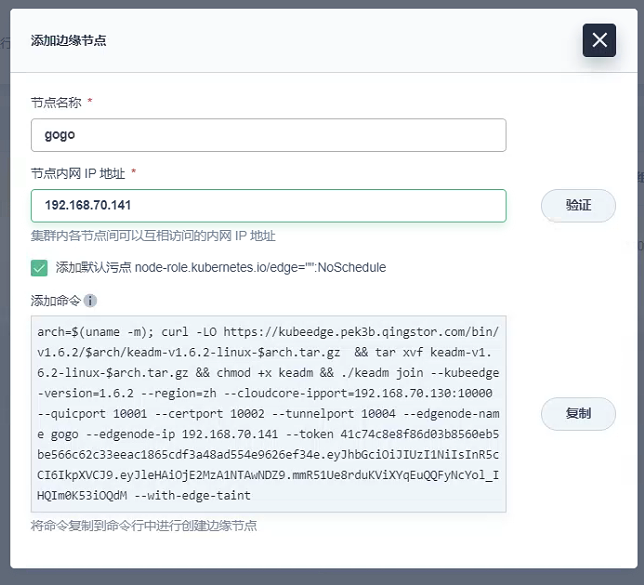
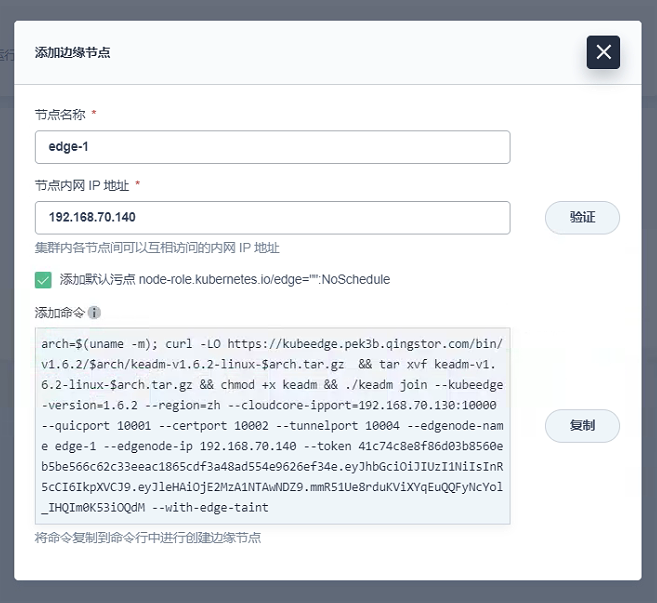
re

diff --git a/KubeSphere/KubeSphere/index.html b/KubeSphere/KubeSphere/index.html
@@ -881,7 +881,7 @@ https://kubesphere.io             2021-09-01 10:35:12
 #####################################################
 </code></pre>
 <p>刷新页面，节点管理中，出现边缘节点</p>
-<p><img alt="" src="https://kubesphere.com.cn/images/docs/zh-cn/enable-pluggable-components/kubeedge/edge-nodes.png" /></p>
+<p><img alt="" src="https://github.com/yinzhipeng123/markdown_log/blob/main/docs/image/KubeSphere/edge.png?raw=true" /></p>
 <h2 id="_2">添加边缘节点</h2>
 <p>新建一台机器，来当做边缘节点，关闭防火墙，关闭selinux，我设置的是4G，双核机器</p>
 <table>
@@ -912,6 +912,7 @@ hosts:          dns files mdns4_minimal [NOTFOUND=return]
 [root@edgenode ~] sysctl -p | grep ip_forward
 </code></pre>
 <p>然后就可以在KubeSphere页面上，节点管理--》边缘节点--》添加节点，输入给node的名字，node的IP地址，然后复制下面的命令</p>
+<p><img alt="" src="https://github.com/yinzhipeng123/markdown_log/blob/main/docs/image/KubeSphere/edge_add.png?raw=true" /></p>
 <p>但是需要把命令中的10000,10001,10002,10004依次更换为30000,30001,30002,30004</p>
 <pre><code class="language-bash">[root@edgenode ~]# arch=$(uname -m); curl -LO https://kubeedge.pek3b.qingstor.com/bin/v1.6.2/$arch/keadm-v1.6.2-linux-$arch.tar.gz  &amp;&amp; tar xvf keadm-v1.6.2-linux-$arch.tar.gz &amp;&amp; chmod +x keadm &amp;&amp; ./keadm join --kubeedge-version=1.6.2 --region=zh --cloudcore-ipport=192.168.70.130:30000 --quicport 30001 --certport 30002 --tunnelport 30004 --edgenode-name edge-1 --edgenode-ip 192.168.70.140 --token 41c74c8e8f86d03b8560eb5be566c62c33eeac1865cdf3a48ad554e9626ef34e.eyJhbGciOiJIUzI1NiIsInR5cCI6IkpXVCJ9.eyJleHAiOjE2MzA1NTAwNDZ9.mmR51Ue8rduKViXYqEuQQFyNcYol_IHQIm0K53iOQdM --with-edge-taint
   % Total    % Received % Xferd  Average Speed   Time    Time     Time  Current
@@ -938,6 +939,7 @@ kubeedge-v1.6.2-linux-amd64/version
 KubeEdge edgecore is running, For logs visit: journalctl -u edgecore.service -b
 </code></pre>
 <p>服务端刷新页面，就添加完成了</p>
+<p><img alt="" src="https://github.com/yinzhipeng123/markdown_log/blob/main/docs/image/KubeSphere/edge_add_fin.png?raw=true" /></p>
                 
               
               
